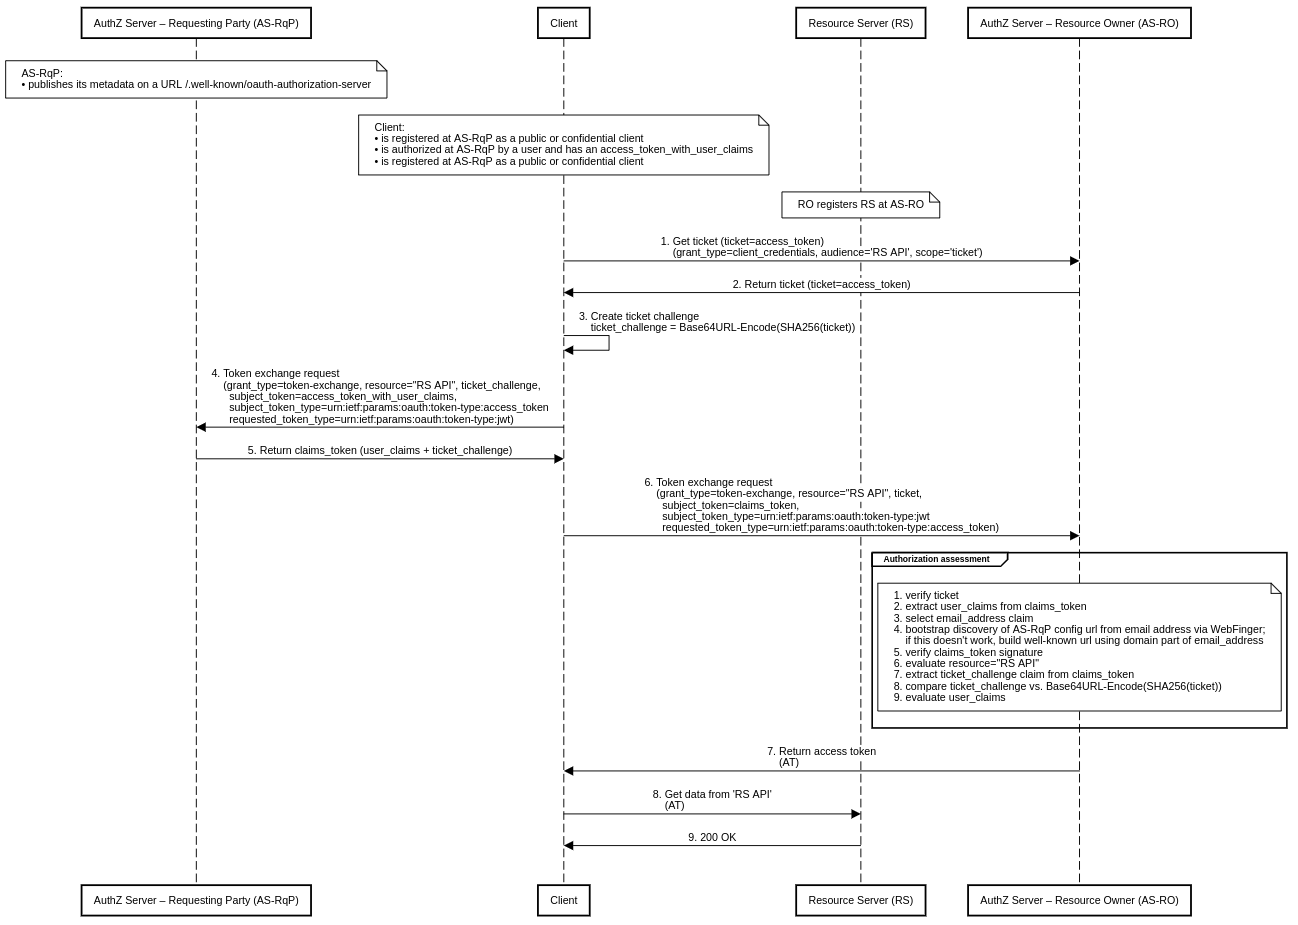
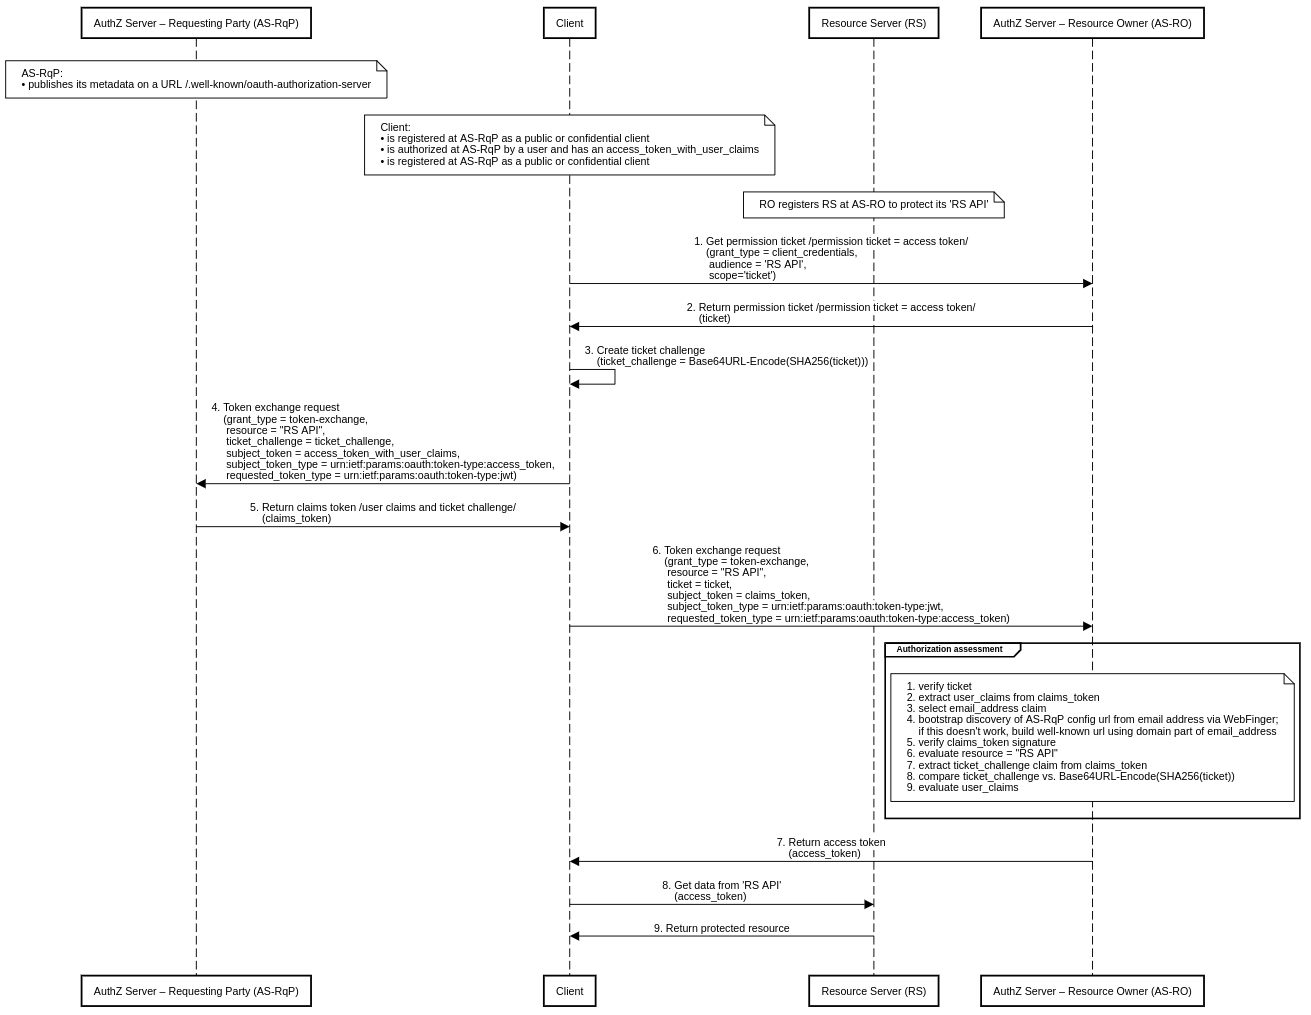
better sequence diagrams

diff --git a/README.md b/README.md
@@ -18,6 +18,16 @@ Correlated Authorization is a Double Cross-Domain Authorization mechanism that w
 
 ![Sequence Diagram - uma-compliant](./images/correlated-authz-uma.png)
 
+Prerequisites:
+
+* ...
+* ... 
+
+Steps:
+
+1. ...
+2. ...
+
 ### Generic
 
 ![Sequence Diagram - generic](./images/correlated-authz-generic.png)
@@ -30,7 +40,7 @@ WIP, early stage [umabox.org][4].
 
 Credits go to [WG - User Managed Access][3].
 
-[1]: https://github.com/uma-email/proposal
-[2]: https://github.com/uma-email/proposal
+[1]: https://github.com/uma-email/proposal/blob/master/authorization-enhanced-mail-system-draft-02.pdf
+[2]: https://github.com/uma-email/proposal/raw/master/correlated-authorization-draft-00.pdf
 [3]: https://kantarainitiative.org/confluence/display/uma/Home
 [4]: https://www.umabox.org
